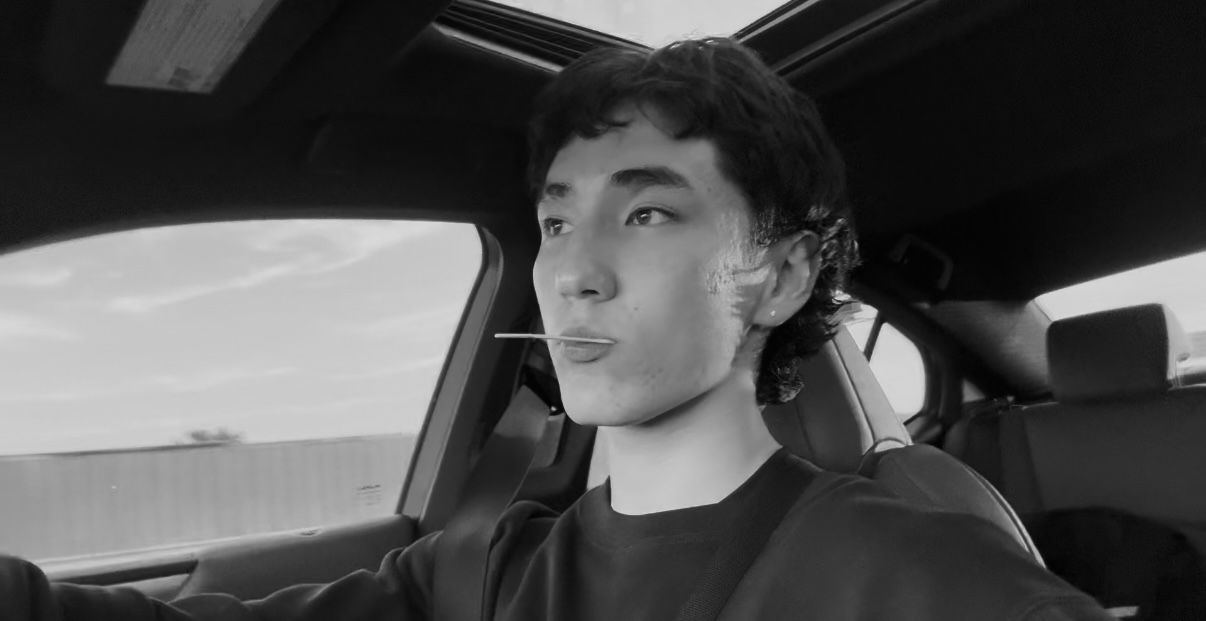
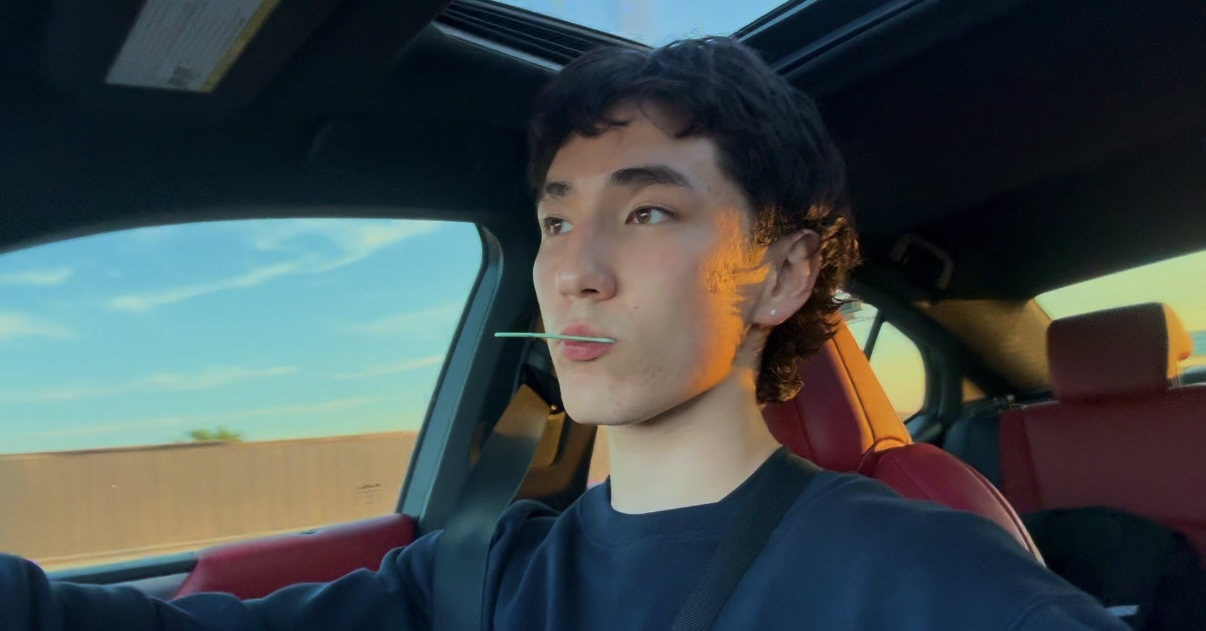
remove buy from toggles, add date to writing, change image of me

diff --git a/src/pages/Favorites.jsx b/src/pages/Favorites.jsx
@@ -69,7 +69,7 @@ const mockFavorites = [
   {
     id: "9",
     title: "Airpods Pro",
-    action: "buy",
+    action: "use",
     url: "https://www.apple.com/airpods-pro/",
     description:
       "Noise cancellation that changed my focus. Essential for deep work and quality audio consumption.",
@@ -93,14 +93,14 @@ const mockFavorites = [
   {
     id: "12",
     title: "Spotify Premium",
-    action: "buy",
+    action: "use",
     url: "https://www.spotify.com/premium/",
     description:
       "Unlimited music discovery and podcast consumption. Soundtrack to productivity and creativity.",
   },
 ];
 
-const filterActions = ["all", "read", "watch", "listen", "use", "buy"];
+const filterActions = ["all", "read", "watch", "listen", "use"];
 
 export default function Favorites() {
   const [activeFilter, setActiveFilter] = useState("all");
@@ -112,7 +112,7 @@ export default function Favorites() {
   return (
     <Layout>
       <section className="space-y-6">
-        <h2 className="font-semibold tracking-wide text-md uppercase">My favorites - hope you enjoy.</h2>
+        <h2 className="font-semibold tracking-wide text-md uppercase">My favorite things</h2>
         {/* <p className="text-gray-600 pb-10">Museum of cool shit that I fuck with. Hope you enjoy.</p> */}
 
         <div className="flex flex-wrap gap-2 pt-2 pb-4">

diff --git a/src/pages/Essay.jsx b/src/pages/Essay.jsx
@@ -1,4 +1,4 @@
-import { useParams } from "react-router-dom";
+import { Link, useParams } from "react-router-dom";
 import { writings } from "../data/writings";
 import Layout from "../components/Layout";
 import ReactMarkdown from "react-markdown";
@@ -11,10 +11,20 @@ export default function Essay() {
 
   return (
     <Layout>
-      <article className="prose prose-neutral max-w-2xl mx-auto">
-        <h1>{essay.title}</h1>
-        <ReactMarkdown>{essay.content}</ReactMarkdown>
-      </article>
+      <div className="max-w-2xl mx-auto">
+        <Link
+          to="/writing"
+          className="text-sm text-blue-600 hover:underline uppercase tracking-wide mb-6 inline-block"
+        >
+          ← Back to all essays
+        </Link>
+
+        <article className="prose prose-neutral ">
+        
+          <h1 className="font-semibold tracking-wide text-md mb-6 uppercase">{essay.title}</h1>
+          <ReactMarkdown>{essay.content}</ReactMarkdown>
+        </article>
+      </div>
     </Layout>
   );
 }

diff --git a/src/pages/Home.jsx b/src/pages/Home.jsx
@@ -7,13 +7,14 @@ export default function Home() {
     <Layout>
       {/* Intro */}
       <section className="space-y-6">
-      <img className="rounded-lg" src="portrait.jpg"></img>
 
         <h2 className="font-semibold tracking-wide text-md mb-6 uppercase">What's up, I'm Ali.</h2>
 
         <p>The first time I remember "being an artist" was drawing a Crayola portrait of my mother. I was around 3 years old. She liked it.</p>
         <p>I’m 18 now, and still think of myself that way.</p>
         <p>I’m currently studying Computer Science at NYU. It’s been my dream to move to New York since I was 15. Couldn’t be happier (or broker).</p>
+      <img className="rounded-lg" src="portrait.jpg"></img>
+
         <p>I spend most of my time working to create beautiful things. I find this pursuit difficult, fulfilling, and wildly fun.</p>
         <p>The rest of my attention is dvided between working out, jazz, shawarma, books, movies, and women.</p>
       </section>

diff --git a/src/pages/Writing.jsx b/src/pages/Writing.jsx
@@ -8,7 +8,7 @@ export default function Writing() {
   return (
     <Layout>
       <section className="space-y-6">
-        <h2 className="font-semibold tracking-wide text-md uppercase">MY WRITING</h2>
+        <h2 className="font-semibold tracking-wide text-md uppercase">Journal & Essays</h2>
 
         <div className="grid grid-cols-1 md:grid-cols-2 gap-4">
           {writings.map((essay) => (
@@ -17,6 +17,7 @@ export default function Writing() {
               onClick={() => navigate(`/writing/${essay.slug}`)}
               className="cursor-pointer rounded-lg border border-gray-200 p-5 hover:bg-neutral-100 transition"
             >
+              <div className="text-sm text-gray-500 uppercase mb-1 tracking-wider"> {essay.date} </div>
               <h3 className="text-blue-600 font-medium text-md mb-1">{essay.title}</h3>
               <p className="text-gray-800 text-sm">{essay.description}</p>
             </div>

diff --git a/src/data/writings.js b/src/data/writings.js
@@ -3,6 +3,7 @@ export const writings = [
       id: "1",
       slug: "clarity-is-the-reward",
       title: "Clarity Is The Reward",
+      date: "Jan 2025",
       description: "On why execution beats thinking and how clarity comes from movement.",
       content: `
         ## Clarity Is The Reward
@@ -16,6 +17,7 @@ export const writings = [
       id: "2",
       slug: "fight-for-your-time",
       title: "Fight For Your Time",
+      date: "Jan 2025",
       description: "How I reclaim my day from distractions and build things that matter.",
       content: `
         ## Fight For Your Time

diff --git a/tailwind.config.js b/tailwind.config.js
@@ -9,3 +9,14 @@ export default {
   plugins: [],
 }
 
+
+module.exports = {
+  content: [
+    "./index.html",
+    "./src/**/*.{js,ts,jsx,tsx}",
+  ],
+  theme: {
+    extend: {},
+  },
+  plugins: [require('@tailwindcss/typography')],
+}
